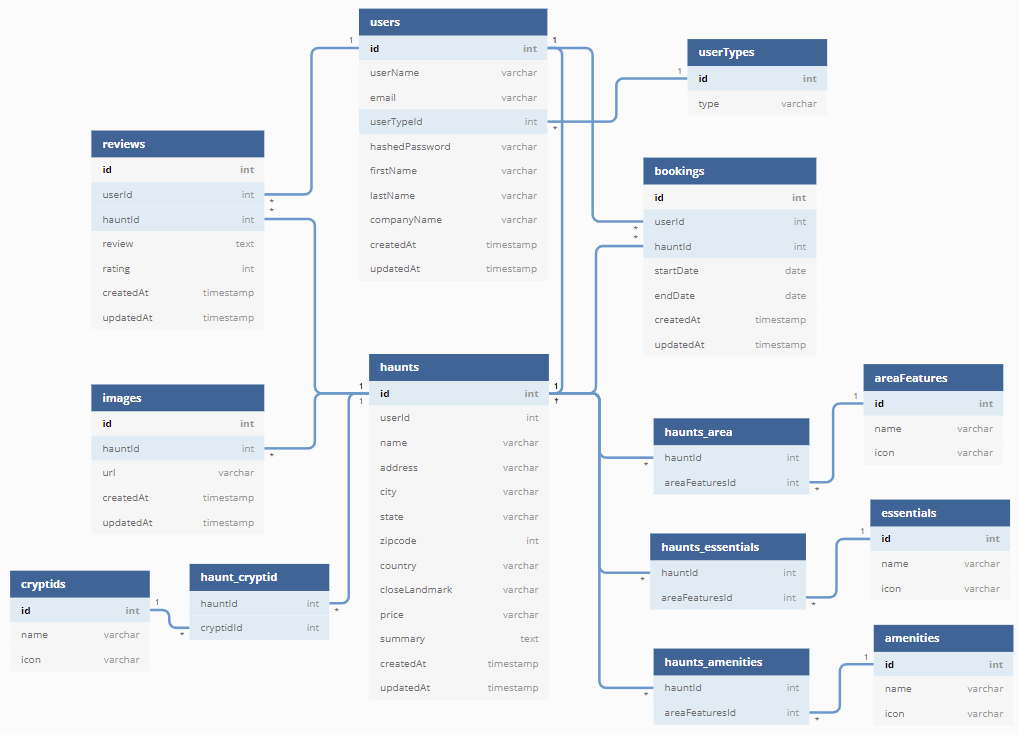
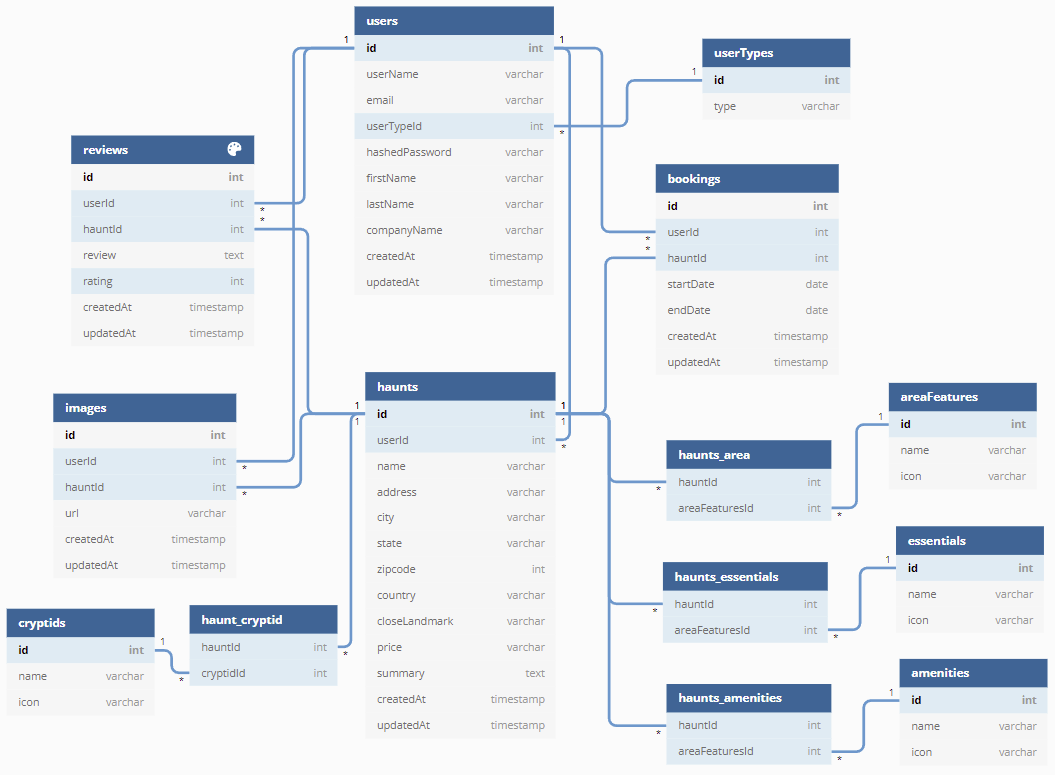
Solved signup bug, fixed diagram again

diff --git a/frontend/src/components/SignupFormPage/index.js b/frontend/src/components/SignupFormPage/index.js
@@ -4,7 +4,7 @@ import { Redirect } from "react-router-dom";
 import * as sessionActions from "../../store/session";
 import './SignupForm.css';
 
-function SignupFormPage({ typeId }) {
+function SignupFormPage({ userTypeId }) {
 
   const dispatch = useDispatch();
   const sessionUser = useSelector((state) => state.session.user);
@@ -24,16 +24,16 @@ function SignupFormPage({ typeId }) {
   let title;
 
   useEffect(() => {
-    if (typeId === "1") setCompany("n/a")
-    if (typeId === "2") setCompany("")
+    if (userTypeId === "1") setCompany("n/a")
+    if (userTypeId === "2") setCompany("")
     setErrors([])
-  }, [typeId])
+  }, [userTypeId])
 
   if (sessionUser) return <Redirect to="/" />;
 
-  if (typeId === "1") {
+  if (userTypeId === "1") {
     title = "Join CryptSeeker"
-  } else if (typeId === "2") {
+  } else if (userTypeId === "2") {
     title = "Let Seekers stay at your Crypt!"
   }
 
@@ -41,7 +41,8 @@ function SignupFormPage({ typeId }) {
     e.preventDefault();
     if (password === confirmPassword) {
       setErrors([]);
-      return dispatch(sessionActions.signup({ email, username, password, firstName, lastName, company, typeId: parseInt(typeId, 10) }))
+      console.log(parseInt(userTypeId, 10))
+      return dispatch(sessionActions.signup({ email, username, password, firstName, lastName, company, userTypeId: parseInt(userTypeId, 10) }))
         .catch(async (res) => {
           const data = await res.json();
           if (data && data.errors) {
@@ -87,7 +88,7 @@ function SignupFormPage({ typeId }) {
           onChange={(e) => setLastName(e.target.value)}
         />
 
-      {typeId === "2" &&
+      {userTypeId === "2" &&
           <input
             type="text"
             placeholder="Company"
@@ -108,8 +109,11 @@ function SignupFormPage({ typeId }) {
           type="password"
           value={password}
           placeholder="Create a Password"
-          onClick={() => setShowConfirm(true)}
-          onChange={(e) => setPassword(e.target.value)}
+          // onClick={() => setShowConfirm(true)}
+          onChange={(e) => {
+            setPassword(e.target.value)
+            setShowConfirm(true)
+          }}
           // required
         />
         

diff --git a/backend/routes/api/users.js b/backend/routes/api/users.js
@@ -20,13 +20,13 @@ const validateSignup = [
     .bail()
     .isLength({ min: 4 })
     .withMessage('Please provide a username with at least 4 characters.'),
+  check('firstName')
+    .exists({ checkFalsy: true })
+    .withMessage('Please enter your first name.'),
   check('username')
     .not()
     .isEmail()
     .withMessage('Username cannot be an email.'),
-  check('firstName')
-    .exists({ checkFalsy: true })
-    .withMessage('Please enter your first name.'),
   check('lastName')
     .exists({ checkFalsy: true })
     .withMessage('Please enter your last name.'),
@@ -43,8 +43,8 @@ router.post(
   "/",
   validateSignup,
   asyncHandler(async (req, res) => {
-    const { email, password, username } = req.body;
-    const user = await User.signup({ email, username, password });
+    const { email, username, firstName, lastName, company, userTypeId, password } = req.body;
+    const user = await User.signup({ email, username, firstName, lastName, company, userTypeId, password });
 
     await setTokenCookie(res, user);
 

diff --git a/frontend/src/store/session.js b/frontend/src/store/session.js
@@ -38,11 +38,15 @@ export const restoreUser = () => async dispatch => {
 };
 
 export const signup = (user) => async (dispatch) => {
-  const { username, email, password } = user;
+  const { username, firstName, lastName, userTypeId, company, email, password } = user;
   const response = await csrfFetch("/api/users", {
     method: "POST",
     body: JSON.stringify({
       username,
+      firstName,
+      lastName,
+      userTypeId,
+      company,
       email,
       password,
     }),

diff --git a/frontend/src/App.js b/frontend/src/App.js
@@ -18,10 +18,10 @@ function App() {
         {isLoaded && (
           <Switch>           
             <Route path="/signup" >
-              <SignupFormPage typeId="1" />
+              <SignupFormPage userTypeId="1" />
             </Route>
             <Route path="/host/signup" >
-              <SignupFormPage typeId="2" />
+              <SignupFormPage userTypeId="2" />
             </Route>
           </Switch>
         )}

diff --git a/backend/db/models/user.js b/backend/db/models/user.js
@@ -101,7 +101,7 @@ module.exports = (sequelize, DataTypes) => {
     }
   };
   
-  User.signup = async function ({ username, email, password }) {
+  User.signup = async function ({ username, email, lastName, firstName, userTypeId, company, password }) {
     const hashedPassword = bcrypt.hashSync(password);
     const user = await User.create({
       username,

diff --git a/frontend/src/components/Navigation/ProfileButton.js b/frontend/src/components/Navigation/ProfileButton.js
@@ -36,6 +36,7 @@ function ProfileButton({ user }) {
         </button>
         {showMenu && (
           <ul className="profile-dropdown">
+            <li>Welcome {user.firstName}!</li>
             <li>{user.username}</li>
             <li>{user.email}</li>
             <li>

diff --git a/README.md b/README.md
@@ -33,4 +33,4 @@ This is my clone of HipCamp, but for those interested in staying in supernatural
 
 ### Database Schema
 
-![Crypt Seeker Diagram](https://github.com/whitnessme/crypt-seeker/blob/8165e1a4586eea112e5940e6f242fa23e1320bd6/frontend/public/images/diagram_CS_solo_react.png)
+![Crypt Seeker Diagram](frontend/public/images/diagram_CS_solo_react.png)
